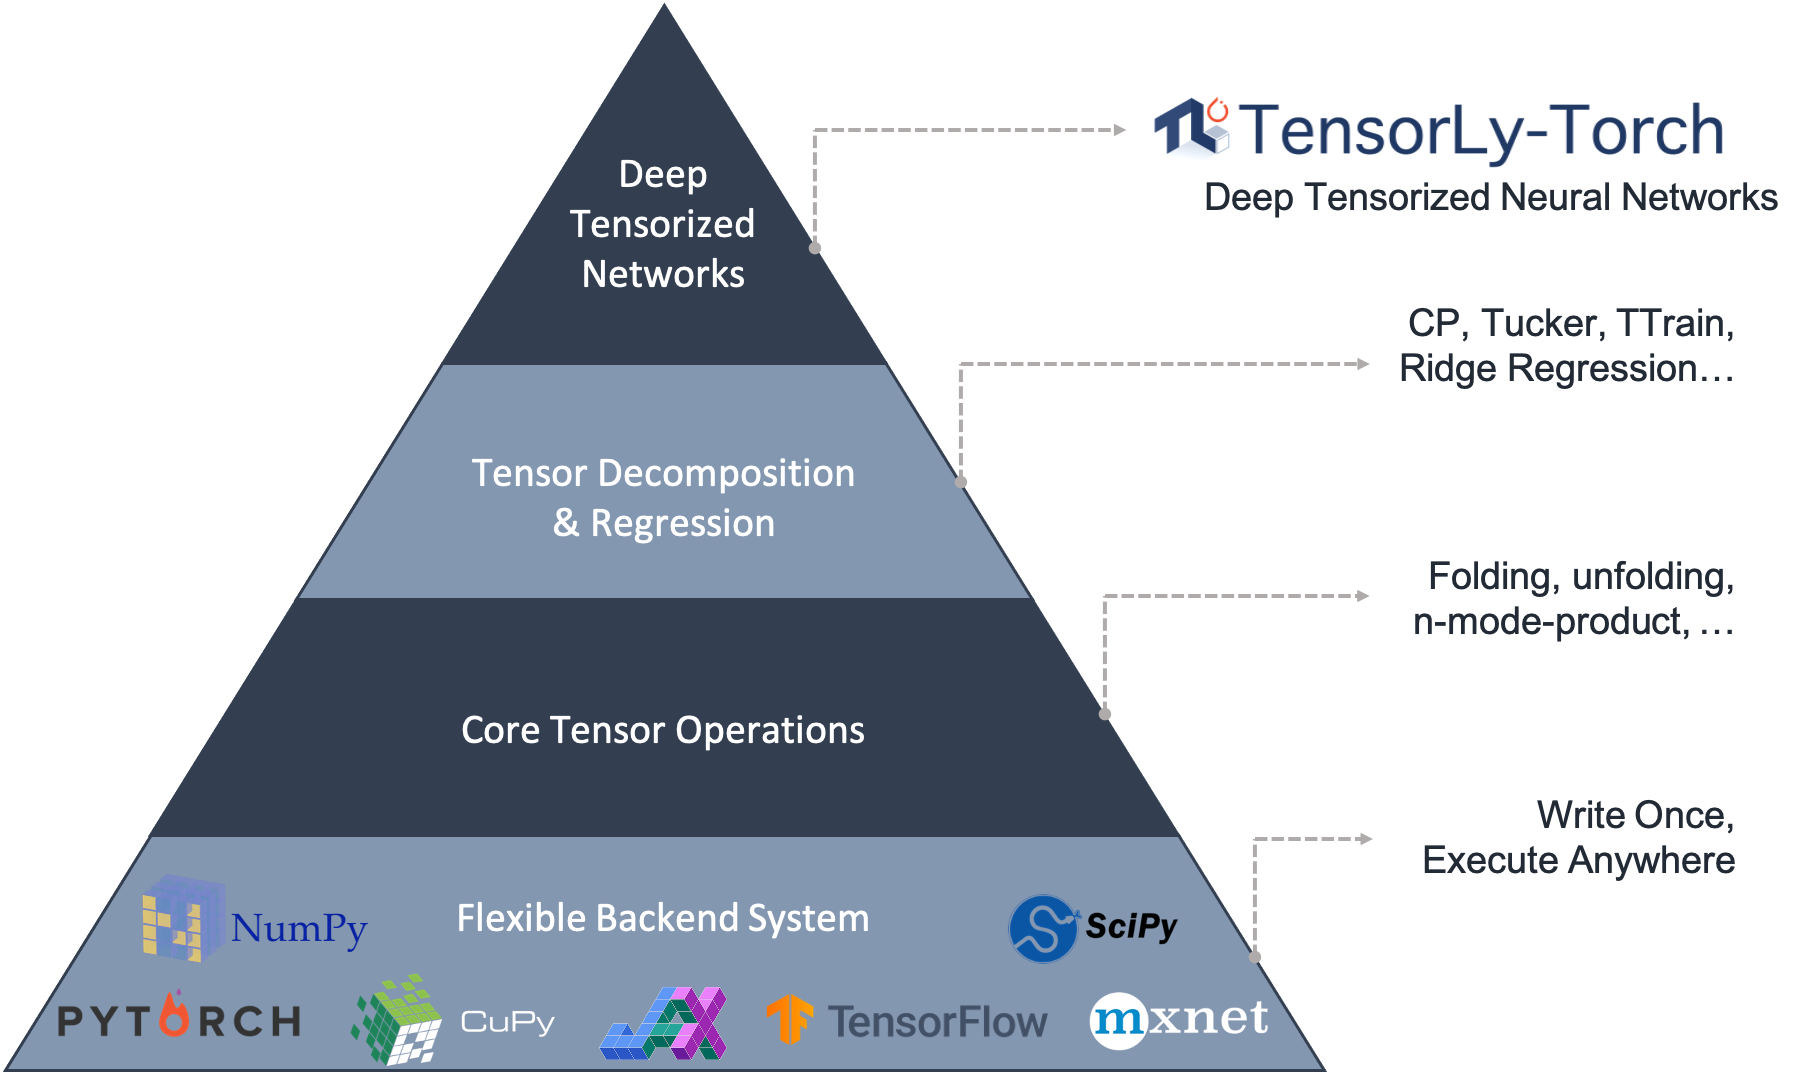
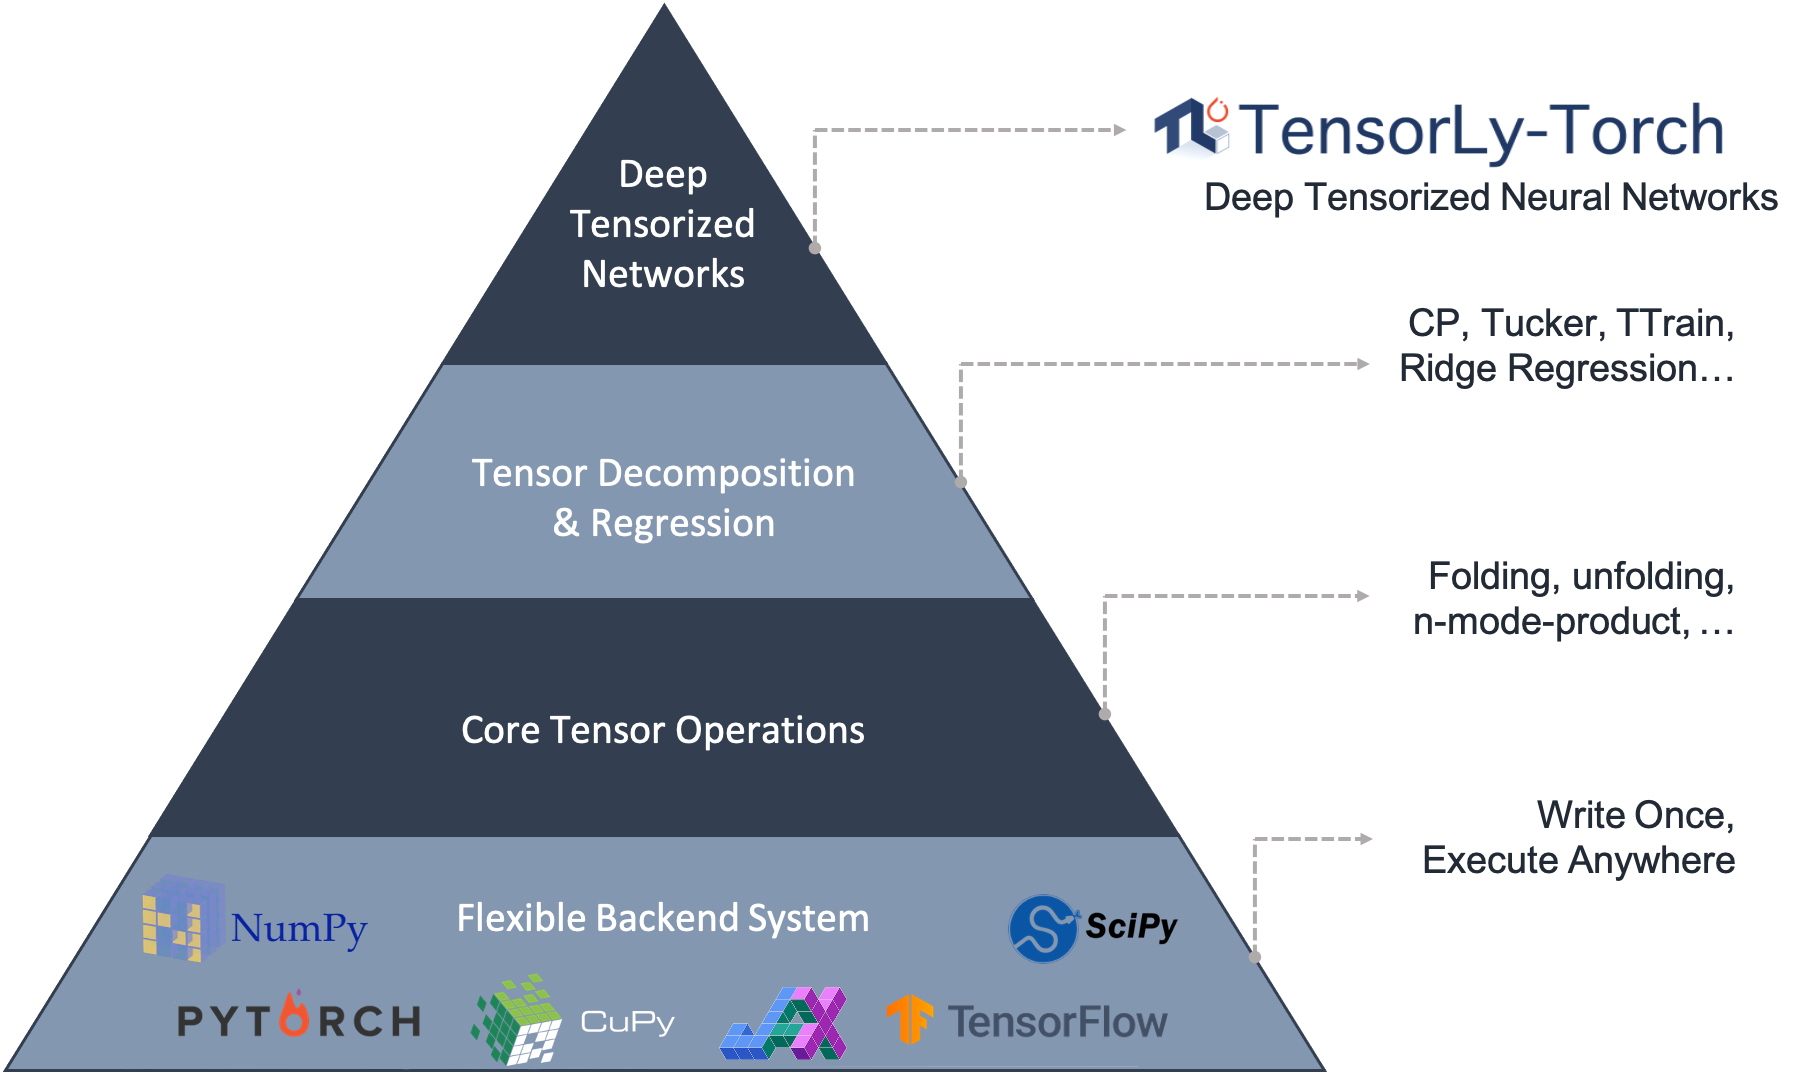
Remove mxnet, linting

Changed region(s): [[0.031, 0.8927, 0.714, 1.0]]

diff --git a/doc/conf.py b/doc/conf.py
@@ -13,7 +13,8 @@
 # serve to show the default.
 
 import sys
-import os
+from datetime import datetime
+import tensorly
 
 # If extensions (or modules to document with autodoc) are in another directory,
 # add these directories to sys.path here. If the directory is relative to the
@@ -75,7 +76,6 @@ master_doc = 'index'
 
 # General information about the project.
 project = u'tensorly'
-from datetime import datetime
 year = datetime.now().year
 copyright = u'2016 - {}, TensorLy Developers'.format(year)
 author = 'Jean Kossaifi'
@@ -86,7 +86,6 @@ author = 'Jean Kossaifi'
 #
 # The short X.Y version.
 # version = '0.1'
-import tensorly
 version = '.'.join(tensorly.__version__.split('.')[:2])
 # The full version, including alpha/beta/rc tags.
 release = tensorly.__version__
